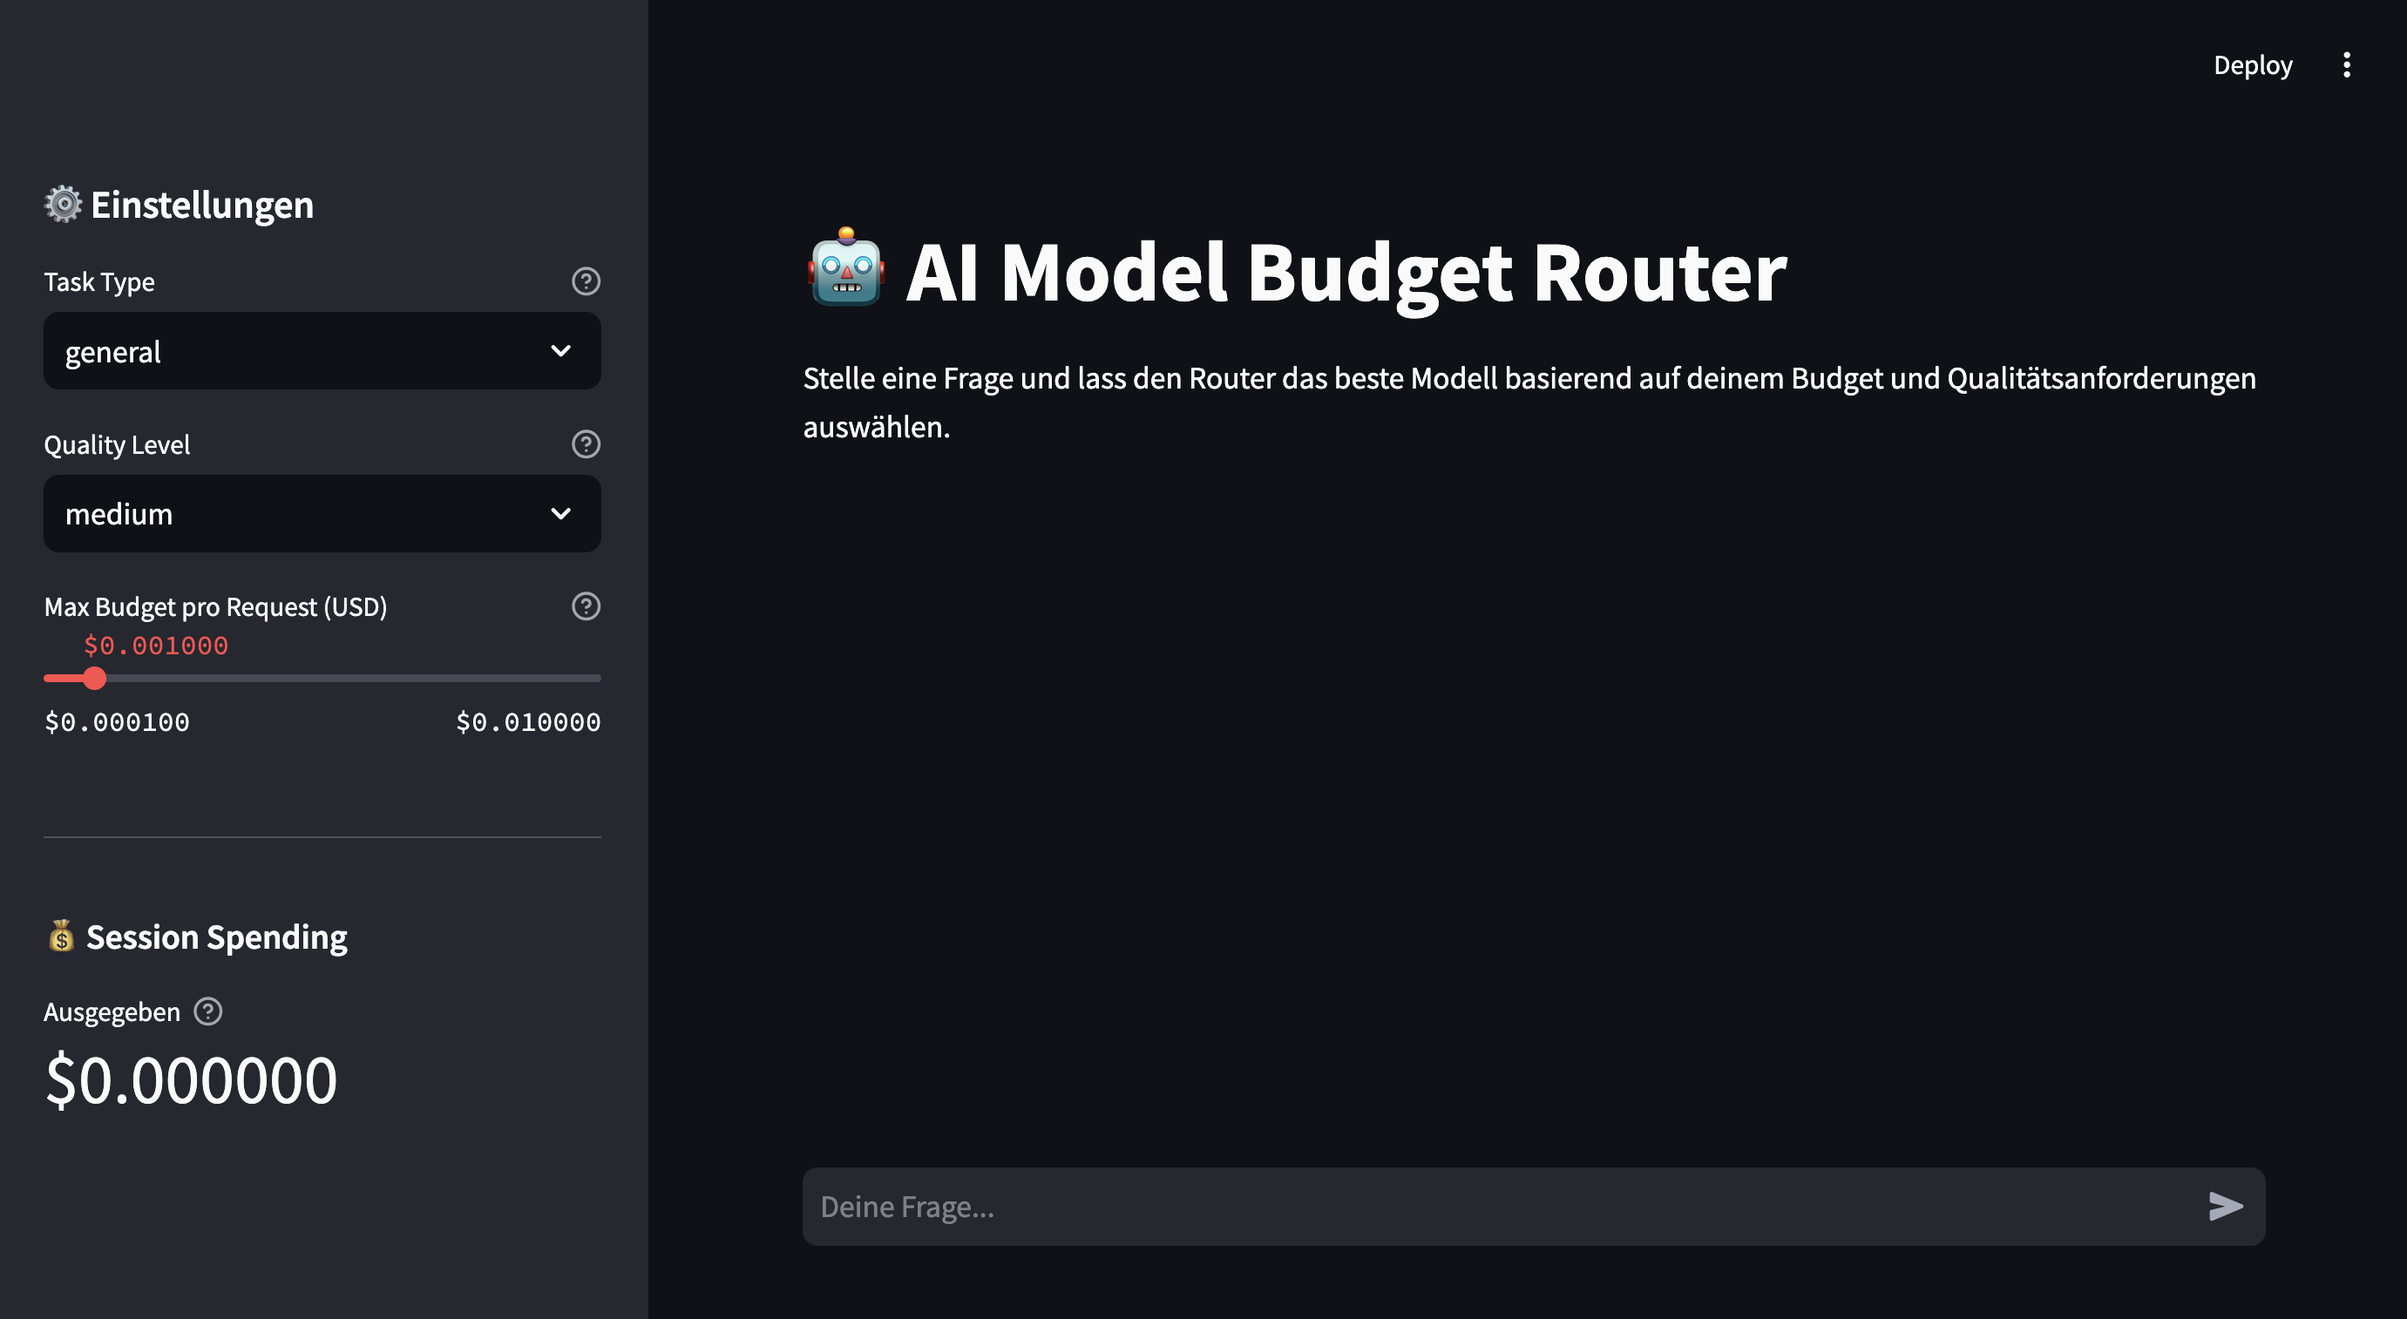
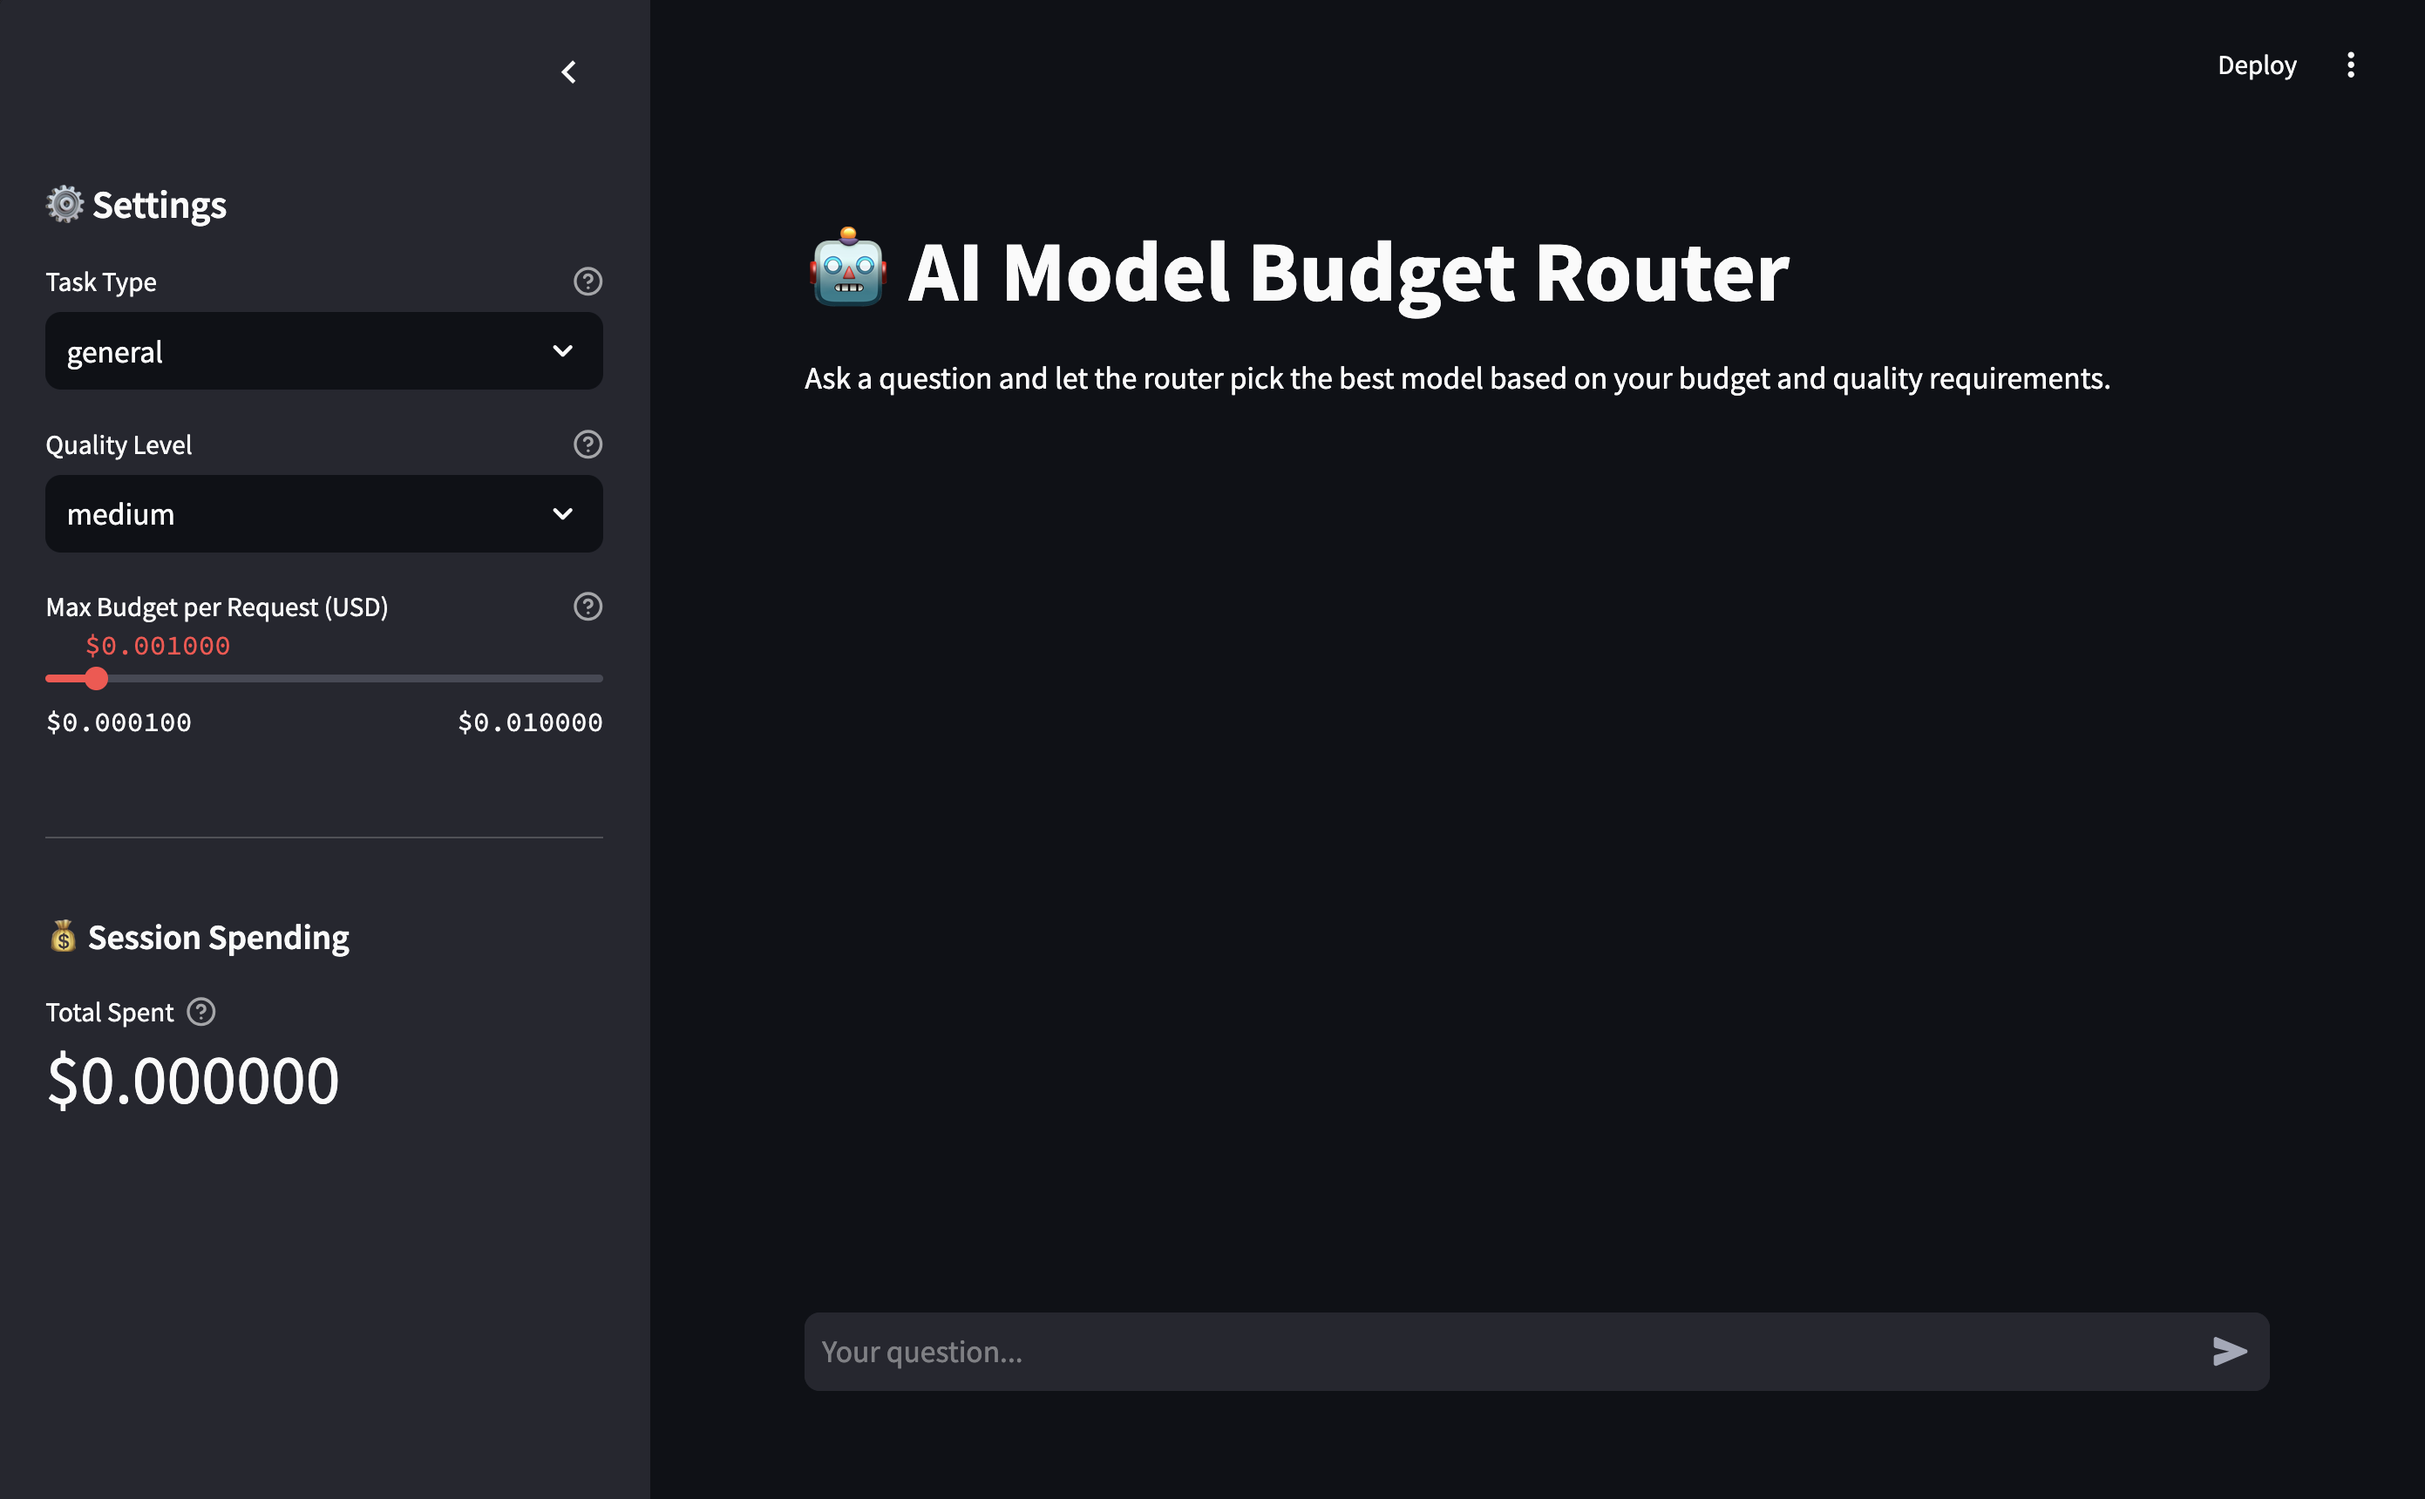
updated Ai Modle Budget Router image, and added new tech stack

diff --git a/src/data/techStack.ts b/src/data/techStack.ts
@@ -49,13 +49,13 @@ export const TECH_STACK: readonly TechStackItem[] = [
     category: "framework",
   },
   {
-    name: "Apache Spark",
-    icon: "https://cdn.jsdelivr.net/gh/devicons/devicon@latest/icons/apachespark/apachespark-original.svg",
+    name: "FastAPI",
+    icon: "https://cdn.jsdelivr.net/gh/devicons/devicon@latest/icons/fastapi/fastapi-original.svg",
     category: "framework",
   },
   {
-    name: "FastAPI",
-    icon: "https://cdn.jsdelivr.net/gh/devicons/devicon@latest/icons/fastapi/fastapi-original.svg",
+    name: "Flask",
+    icon: "https://skillicons.dev/icons?i=flask",
     category: "framework",
   },
   {
@@ -63,11 +63,21 @@ export const TECH_STACK: readonly TechStackItem[] = [
     icon: "https://cdn.jsdelivr.net/gh/devicons/devicon@latest/icons/streamlit/streamlit-original.svg",
     category: "framework",
   },
+  {
+    name: "Apache Spark",
+    icon: "https://cdn.jsdelivr.net/gh/devicons/devicon@latest/icons/apachespark/apachespark-original.svg",
+    category: "framework",
+  },
 
   // Developer Tools
   {
     name: "Git",
     icon: "https://cdn.jsdelivr.net/gh/devicons/devicon@latest/icons/git/git-original.svg",
+    category: "tool",
+  },
+  {
+    name: "MySQL",
+    icon: "https://cdn.jsdelivr.net/gh/devicons/devicon@latest/icons/mysql/mysql-original-wordmark.svg",
     category: "tool",
   },
 ];
